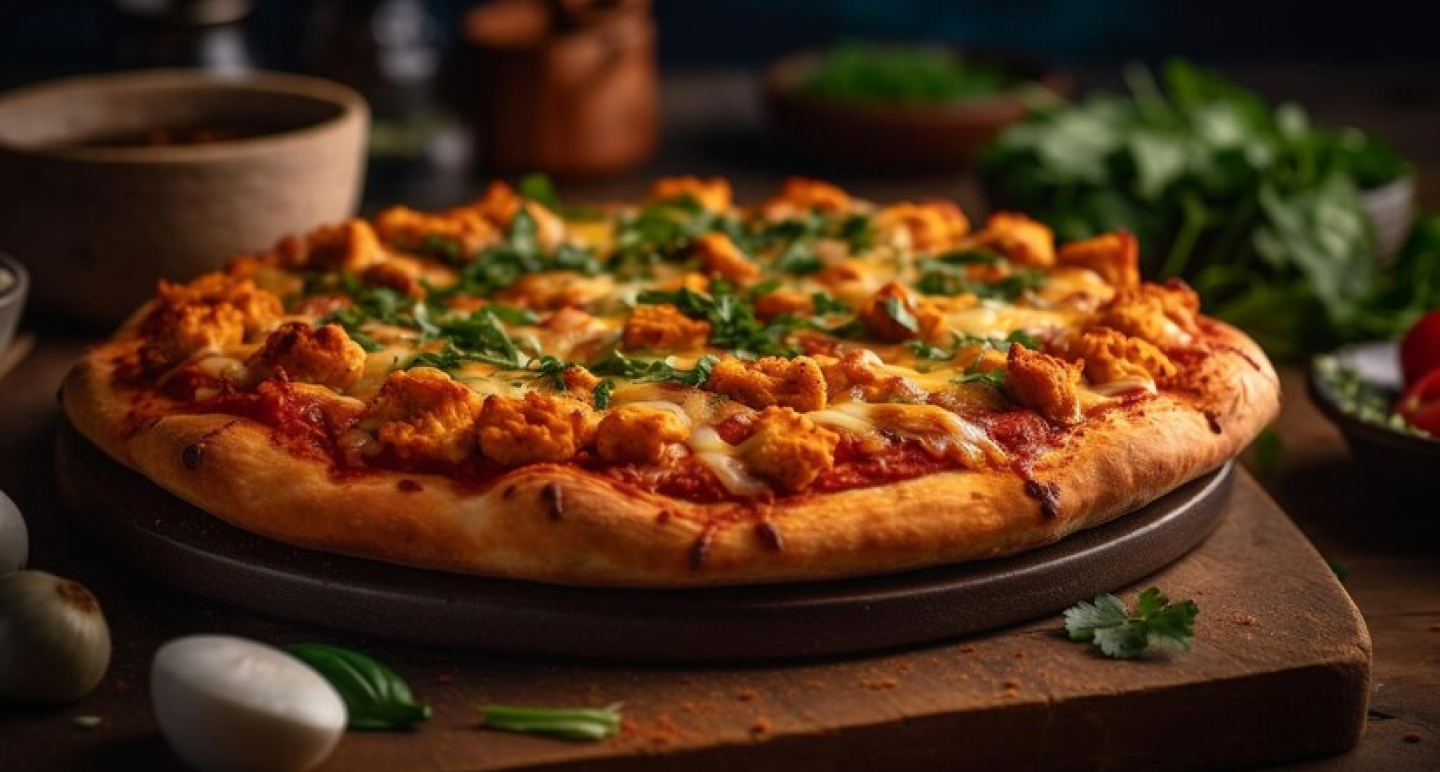
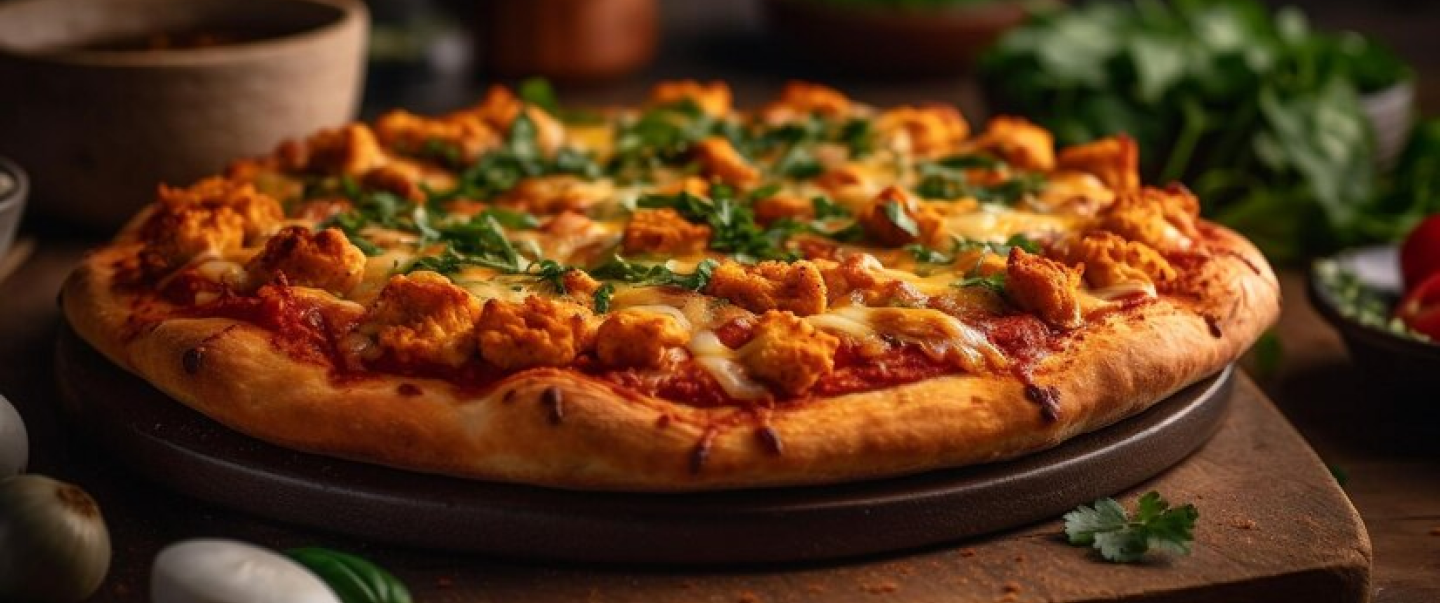
header image cropped

diff --git a/styles/global.css b/styles/global.css
@@ -24,7 +24,7 @@ p{
 
 header{
     width: auto;
-    height: 700px;
+    height: 800px;
     padding: 0 50px;
     background-image: url("../assets/images/header.png");
     background-repeat: no-repeat;
@@ -80,7 +80,7 @@ footer{
     color: #fff;
     display: block;
     padding-bottom: 35px;
-    
+
 }
 
 .footer_visitar{
